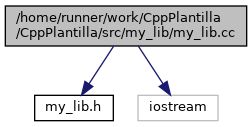
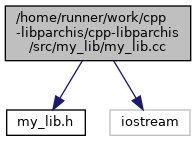
LuisPalacios published a site update

diff --git a/my__lib_8cc.html b/my__lib_8cc.html
@@ -5,7 +5,7 @@
 <meta http-equiv="X-UA-Compatible" content="IE=9"/>
 <meta name="generator" content="Doxygen 1.9.1"/>
 <meta name="viewport" content="width=device-width, initial-scale=1"/>
-<title>C++ Plantilla LuisPa: /home/runner/work/CppPlantilla/CppPlantilla/src/my_lib/my_lib.cc File Reference</title>
+<title>Librería Parchis C++: /home/runner/work/cpp-libparchis/cpp-libparchis/src/my_lib/my_lib.cc File Reference</title>
 <link href="tabs.css" rel="stylesheet" type="text/css"/>
 <script type="text/javascript" src="jquery.js"></script>
 <script type="text/javascript" src="dynsections.js"></script>
@@ -21,7 +21,7 @@
  <tbody>
  <tr style="height: 56px;">
   <td id="projectalign" style="padding-left: 0.5em;">
-   <div id="projectname">C++ Plantilla LuisPa
+   <div id="projectname">Librería Parchis C++
    &#160;<span id="projectnumber">1.0.0</span>
    </div>
   </td>
@@ -77,11 +77,11 @@ $(function() {
 </div><div class="textblock"><div class="dynheader">
 Include dependency graph for my_lib.cc:</div>
 <div class="dyncontent">
-<div class="center"><img src="my__lib_8cc__incl.png" border="0" usemap="#a_2home_2runner_2work_2CppPlantilla_2CppPlantilla_2src_2my__lib_2my__lib_8cc" alt=""/></div>
-<map name="a_2home_2runner_2work_2CppPlantilla_2CppPlantilla_2src_2my__lib_2my__lib_8cc" id="a_2home_2runner_2work_2CppPlantilla_2CppPlantilla_2src_2my__lib_2my__lib_8cc">
-<area shape="rect" title=" " alt="" coords="5,5,247,47"/>
-<area shape="rect" href="my__lib_8h.html" title=" " alt="" coords="35,95,113,121"/>
-<area shape="rect" title=" " alt="" coords="138,95,218,121"/>
+<div class="center"><img src="my__lib_8cc__incl.png" border="0" usemap="#a_2home_2runner_2work_2cpp-libparchis_2cpp-libparchis_2src_2my__lib_2my__lib_8cc" alt=""/></div>
+<map name="a_2home_2runner_2work_2cpp-libparchis_2cpp-libparchis_2src_2my__lib_2my__lib_8cc" id="a_2home_2runner_2work_2cpp-libparchis_2cpp-libparchis_2src_2my__lib_2my__lib_8cc">
+<area shape="rect" title=" " alt="" coords="5,5,191,61"/>
+<area shape="rect" href="my__lib_8h.html" title=" " alt="" coords="7,109,85,136"/>
+<area shape="rect" title=" " alt="" coords="110,109,190,136"/>
 </map>
 </div>
 </div><table class="memberdecls">

diff --git a/my__lib_8h.html b/my__lib_8h.html
@@ -5,7 +5,7 @@
 <meta http-equiv="X-UA-Compatible" content="IE=9"/>
 <meta name="generator" content="Doxygen 1.9.1"/>
 <meta name="viewport" content="width=device-width, initial-scale=1"/>
-<title>C++ Plantilla LuisPa: /home/runner/work/CppPlantilla/CppPlantilla/src/my_lib/my_lib.h File Reference</title>
+<title>Librería Parchis C++: /home/runner/work/cpp-libparchis/cpp-libparchis/src/my_lib/my_lib.h File Reference</title>
 <link href="tabs.css" rel="stylesheet" type="text/css"/>
 <script type="text/javascript" src="jquery.js"></script>
 <script type="text/javascript" src="dynsections.js"></script>
@@ -21,7 +21,7 @@
  <tbody>
  <tr style="height: 56px;">
   <td id="projectalign" style="padding-left: 0.5em;">
-   <div id="projectname">C++ Plantilla LuisPa
+   <div id="projectname">Librería Parchis C++
    &#160;<span id="projectnumber">1.0.0</span>
    </div>
   </td>
@@ -75,10 +75,10 @@ $(function() {
 <div class="textblock"><div class="dynheader">
 This graph shows which files directly or indirectly include this file:</div>
 <div class="dyncontent">
-<div class="center"><img src="my__lib_8h__dep__incl.png" border="0" usemap="#a_2home_2runner_2work_2CppPlantilla_2CppPlantilla_2src_2my__lib_2my__lib_8hdep" alt=""/></div>
-<map name="a_2home_2runner_2work_2CppPlantilla_2CppPlantilla_2src_2my__lib_2my__lib_8hdep" id="a_2home_2runner_2work_2CppPlantilla_2CppPlantilla_2src_2my__lib_2my__lib_8hdep">
-<area shape="rect" title=" " alt="" coords="9,5,243,47"/>
-<area shape="rect" href="my__lib_8cc.html" title=" " alt="" coords="5,95,247,136"/>
+<div class="center"><img src="my__lib_8h__dep__incl.png" border="0" usemap="#a_2home_2runner_2work_2cpp-libparchis_2cpp-libparchis_2src_2my__lib_2my__lib_8hdep" alt=""/></div>
+<map name="a_2home_2runner_2work_2cpp-libparchis_2cpp-libparchis_2src_2my__lib_2my__lib_8hdep" id="a_2home_2runner_2work_2cpp-libparchis_2cpp-libparchis_2src_2my__lib_2my__lib_8hdep">
+<area shape="rect" title=" " alt="" coords="5,5,191,61"/>
+<area shape="rect" href="my__lib_8cc.html" title=" " alt="" coords="5,109,191,165"/>
 </map>
 </div>
 </div>

diff --git a/my__lib_2CMakeLists_8txt.html b/my__lib_2CMakeLists_8txt.html
@@ -5,7 +5,7 @@
 <meta http-equiv="X-UA-Compatible" content="IE=9"/>
 <meta name="generator" content="Doxygen 1.9.1"/>
 <meta name="viewport" content="width=device-width, initial-scale=1"/>
-<title>C++ Plantilla LuisPa: /home/runner/work/CppPlantilla/CppPlantilla/src/my_lib/CMakeLists.txt File Reference</title>
+<title>Librería Parchis C++: /home/runner/work/cpp-libparchis/cpp-libparchis/src/my_lib/CMakeLists.txt File Reference</title>
 <link href="tabs.css" rel="stylesheet" type="text/css"/>
 <script type="text/javascript" src="jquery.js"></script>
 <script type="text/javascript" src="dynsections.js"></script>
@@ -21,7 +21,7 @@
  <tbody>
  <tr style="height: 56px;">
   <td id="projectalign" style="padding-left: 0.5em;">
-   <div id="projectname">C++ Plantilla LuisPa
+   <div id="projectname">Librería Parchis C++
    &#160;<span id="projectnumber">1.0.0</span>
    </div>
   </td>
@@ -65,7 +65,7 @@ $(function() {
   <div class="summary">
 <a href="#func-members">Functions</a>  </div>
   <div class="headertitle">
-<div class="title">/home/runner/work/CppPlantilla/CppPlantilla/src/my_lib/CMakeLists.txt File Reference</div>  </div>
+<div class="title">/home/runner/work/cpp-libparchis/cpp-libparchis/src/my_lib/CMakeLists.txt File Reference</div>  </div>
 </div><!--header-->
 <div class="contents">
 <table class="memberdecls">

diff --git a/CMakeLists_8txt.html b/CMakeLists_8txt.html
@@ -5,7 +5,7 @@
 <meta http-equiv="X-UA-Compatible" content="IE=9"/>
 <meta name="generator" content="Doxygen 1.9.1"/>
 <meta name="viewport" content="width=device-width, initial-scale=1"/>
-<title>C++ Plantilla LuisPa: /home/runner/work/CppPlantilla/CppPlantilla/src/CMakeLists.txt File Reference</title>
+<title>Librería Parchis C++: /home/runner/work/cpp-libparchis/cpp-libparchis/src/CMakeLists.txt File Reference</title>
 <link href="tabs.css" rel="stylesheet" type="text/css"/>
 <script type="text/javascript" src="jquery.js"></script>
 <script type="text/javascript" src="dynsections.js"></script>
@@ -21,7 +21,7 @@
  <tbody>
  <tr style="height: 56px;">
   <td id="projectalign" style="padding-left: 0.5em;">
-   <div id="projectname">C++ Plantilla LuisPa
+   <div id="projectname">Librería Parchis C++
    &#160;<span id="projectnumber">1.0.0</span>
    </div>
   </td>
@@ -63,7 +63,7 @@ $(function() {
 </div><!-- top -->
 <div class="header">
   <div class="headertitle">
-<div class="title">/home/runner/work/CppPlantilla/CppPlantilla/src/CMakeLists.txt File Reference</div>  </div>
+<div class="title">/home/runner/work/cpp-libparchis/cpp-libparchis/src/CMakeLists.txt File Reference</div>  </div>
 </div><!--header-->
 <div class="contents">
 </div><!-- contents -->

diff --git a/index.html b/index.html
@@ -5,7 +5,7 @@
 <meta http-equiv="X-UA-Compatible" content="IE=9"/>
 <meta name="generator" content="Doxygen 1.9.1"/>
 <meta name="viewport" content="width=device-width, initial-scale=1"/>
-<title>C++ Plantilla LuisPa: Main Page</title>
+<title>Librería Parchis C++: Main Page</title>
 <link href="tabs.css" rel="stylesheet" type="text/css"/>
 <script type="text/javascript" src="jquery.js"></script>
 <script type="text/javascript" src="dynsections.js"></script>
@@ -21,7 +21,7 @@
  <tbody>
  <tr style="height: 56px;">
   <td id="projectalign" style="padding-left: 0.5em;">
-   <div id="projectname">C++ Plantilla LuisPa
+   <div id="projectname">Librería Parchis C++
    &#160;<span id="projectnumber">1.0.0</span>
    </div>
   </td>
@@ -63,7 +63,7 @@ $(function() {
 
 <div class="header">
   <div class="headertitle">
-<div class="title">C++ Plantilla LuisPa Documentation</div>  </div>
+<div class="title">Librería Parchis C++ Documentation</div>  </div>
 </div><!--header-->
 <div class="contents">
 </div><!-- contents -->

diff --git a/my__lib_8h_source.html b/my__lib_8h_source.html
@@ -5,7 +5,7 @@
 <meta http-equiv="X-UA-Compatible" content="IE=9"/>
 <meta name="generator" content="Doxygen 1.9.1"/>
 <meta name="viewport" content="width=device-width, initial-scale=1"/>
-<title>C++ Plantilla LuisPa: /home/runner/work/CppPlantilla/CppPlantilla/src/my_lib/my_lib.h Source File</title>
+<title>Librería Parchis C++: /home/runner/work/cpp-libparchis/cpp-libparchis/src/my_lib/my_lib.h Source File</title>
 <link href="tabs.css" rel="stylesheet" type="text/css"/>
 <script type="text/javascript" src="jquery.js"></script>
 <script type="text/javascript" src="dynsections.js"></script>
@@ -21,7 +21,7 @@
  <tbody>
  <tr style="height: 56px;">
   <td id="projectalign" style="padding-left: 0.5em;">
-   <div id="projectname">C++ Plantilla LuisPa
+   <div id="projectname">Librería Parchis C++
    &#160;<span id="projectnumber">1.0.0</span>
    </div>
   </td>

diff --git a/dir_08ebf401352d0c333d3a643fc2ed36cf.html b/dir_08ebf401352d0c333d3a643fc2ed36cf.html
@@ -5,7 +5,7 @@
 <meta http-equiv="X-UA-Compatible" content="IE=9"/>
 <meta name="generator" content="Doxygen 1.9.1"/>
 <meta name="viewport" content="width=device-width, initial-scale=1"/>
-<title>C++ Plantilla LuisPa: /home/runner/work/CppPlantilla/CppPlantilla/src/my_lib Directory Reference</title>
+<title>Librería Parchis C++: /home/runner/work/cpp-libparchis/cpp-libparchis/src/my_lib Directory Reference</title>
 <link href="tabs.css" rel="stylesheet" type="text/css"/>
 <script type="text/javascript" src="jquery.js"></script>
 <script type="text/javascript" src="dynsections.js"></script>
@@ -21,7 +21,7 @@
  <tbody>
  <tr style="height: 56px;">
   <td id="projectalign" style="padding-left: 0.5em;">
-   <div id="projectname">C++ Plantilla LuisPa
+   <div id="projectname">Librería Parchis C++
    &#160;<span id="projectnumber">1.0.0</span>
    </div>
   </td>

diff --git a/dir_68267d1309a1af8e8297ef4c3efbcdba.html b/dir_68267d1309a1af8e8297ef4c3efbcdba.html
@@ -5,7 +5,7 @@
 <meta http-equiv="X-UA-Compatible" content="IE=9"/>
 <meta name="generator" content="Doxygen 1.9.1"/>
 <meta name="viewport" content="width=device-width, initial-scale=1"/>
-<title>C++ Plantilla LuisPa: /home/runner/work/CppPlantilla/CppPlantilla/src Directory Reference</title>
+<title>Librería Parchis C++: /home/runner/work/cpp-libparchis/cpp-libparchis/src Directory Reference</title>
 <link href="tabs.css" rel="stylesheet" type="text/css"/>
 <script type="text/javascript" src="jquery.js"></script>
 <script type="text/javascript" src="dynsections.js"></script>
@@ -21,7 +21,7 @@
  <tbody>
  <tr style="height: 56px;">
   <td id="projectalign" style="padding-left: 0.5em;">
-   <div id="projectname">C++ Plantilla LuisPa
+   <div id="projectname">Librería Parchis C++
    &#160;<span id="projectnumber">1.0.0</span>
    </div>
   </td>

diff --git a/globals.html b/globals.html
@@ -5,7 +5,7 @@
 <meta http-equiv="X-UA-Compatible" content="IE=9"/>
 <meta name="generator" content="Doxygen 1.9.1"/>
 <meta name="viewport" content="width=device-width, initial-scale=1"/>
-<title>C++ Plantilla LuisPa: File Members</title>
+<title>Librería Parchis C++: File Members</title>
 <link href="tabs.css" rel="stylesheet" type="text/css"/>
 <script type="text/javascript" src="jquery.js"></script>
 <script type="text/javascript" src="dynsections.js"></script>
@@ -21,7 +21,7 @@
  <tbody>
  <tr style="height: 56px;">
   <td id="projectalign" style="padding-left: 0.5em;">
-   <div id="projectname">C++ Plantilla LuisPa
+   <div id="projectname">Librería Parchis C++
    &#160;<span id="projectnumber">1.0.0</span>
    </div>
   </td>

diff --git a/globals_func.html b/globals_func.html
@@ -5,7 +5,7 @@
 <meta http-equiv="X-UA-Compatible" content="IE=9"/>
 <meta name="generator" content="Doxygen 1.9.1"/>
 <meta name="viewport" content="width=device-width, initial-scale=1"/>
-<title>C++ Plantilla LuisPa: File Members</title>
+<title>Librería Parchis C++: File Members</title>
 <link href="tabs.css" rel="stylesheet" type="text/css"/>
 <script type="text/javascript" src="jquery.js"></script>
 <script type="text/javascript" src="dynsections.js"></script>
@@ -21,7 +21,7 @@
  <tbody>
  <tr style="height: 56px;">
   <td id="projectalign" style="padding-left: 0.5em;">
-   <div id="projectname">C++ Plantilla LuisPa
+   <div id="projectname">Librería Parchis C++
    &#160;<span id="projectnumber">1.0.0</span>
    </div>
   </td>

diff --git a/graph_legend.html b/graph_legend.html
@@ -5,7 +5,7 @@
 <meta http-equiv="X-UA-Compatible" content="IE=9"/>
 <meta name="generator" content="Doxygen 1.9.1"/>
 <meta name="viewport" content="width=device-width, initial-scale=1"/>
-<title>C++ Plantilla LuisPa: Graph Legend</title>
+<title>Librería Parchis C++: Graph Legend</title>
 <link href="tabs.css" rel="stylesheet" type="text/css"/>
 <script type="text/javascript" src="jquery.js"></script>
 <script type="text/javascript" src="dynsections.js"></script>
@@ -21,7 +21,7 @@
  <tbody>
  <tr style="height: 56px;">
   <td id="projectalign" style="padding-left: 0.5em;">
-   <div id="projectname">C++ Plantilla LuisPa
+   <div id="projectname">Librería Parchis C++
    &#160;<span id="projectnumber">1.0.0</span>
    </div>
   </td>

diff --git a/files.html b/files.html
@@ -5,7 +5,7 @@
 <meta http-equiv="X-UA-Compatible" content="IE=9"/>
 <meta name="generator" content="Doxygen 1.9.1"/>
 <meta name="viewport" content="width=device-width, initial-scale=1"/>
-<title>C++ Plantilla LuisPa: File List</title>
+<title>Librería Parchis C++: File List</title>
 <link href="tabs.css" rel="stylesheet" type="text/css"/>
 <script type="text/javascript" src="jquery.js"></script>
 <script type="text/javascript" src="dynsections.js"></script>
@@ -21,7 +21,7 @@
  <tbody>
  <tr style="height: 56px;">
   <td id="projectalign" style="padding-left: 0.5em;">
-   <div id="projectname">C++ Plantilla LuisPa
+   <div id="projectname">Librería Parchis C++
    &#160;<span id="projectnumber">1.0.0</span>
    </div>
   </td>
